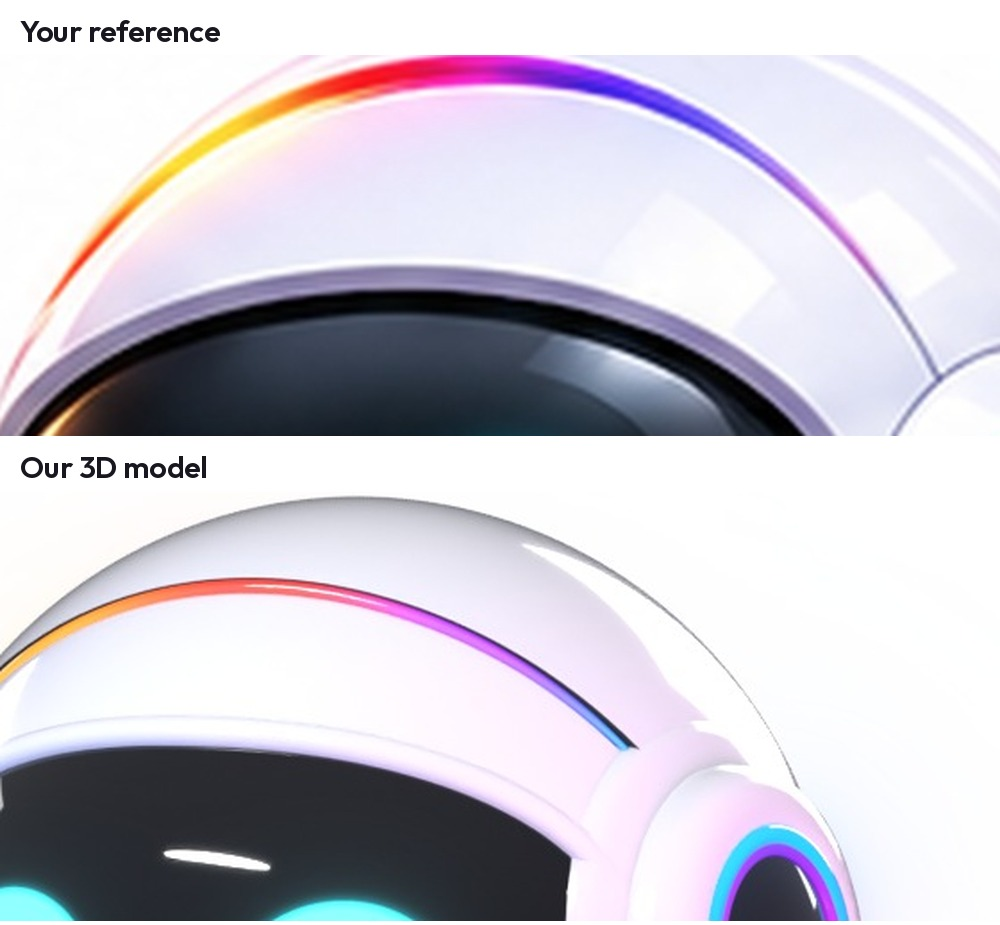
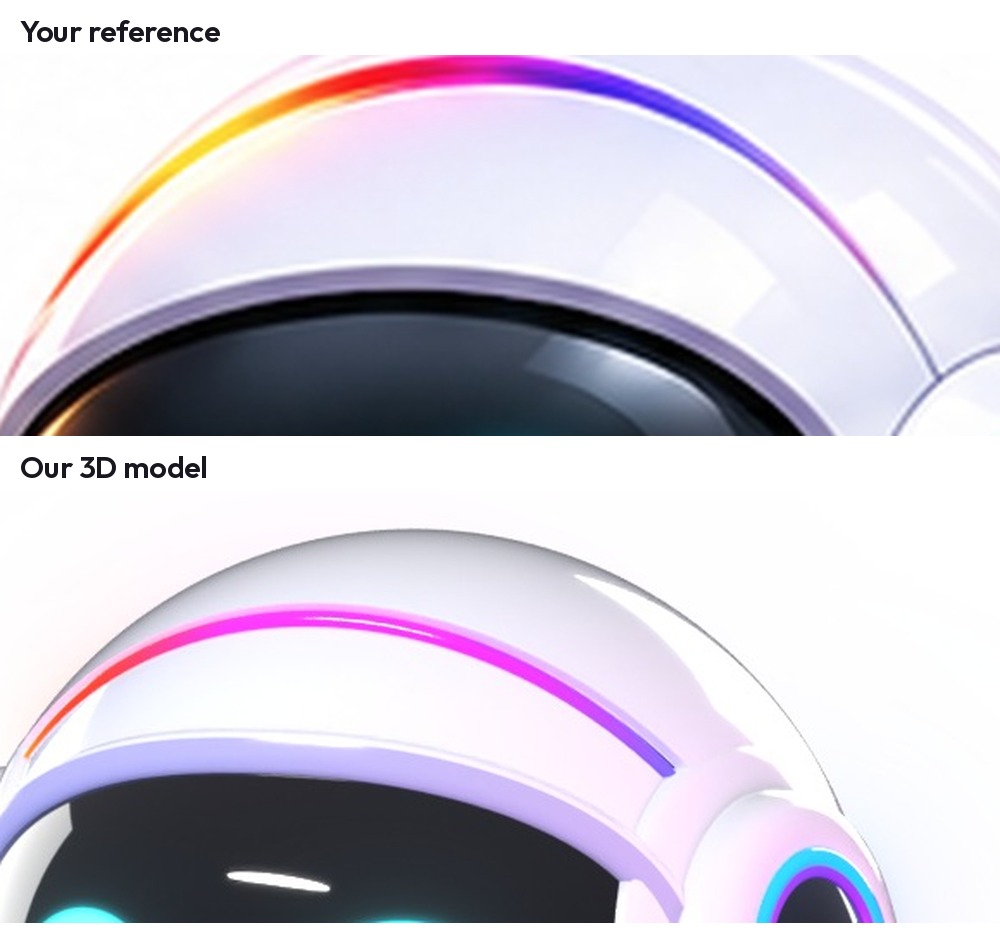
Character version 3: crisp shell lip over a saturated top glow, lavender chamfered visor rim
Claude-Session: https://claude.ai/code/session_011BdSE2fEeiEv9ZgoYmWAPn

diff --git a/design/hero/character/v3/build.py b/design/hero/character/v3/build.py
@@ -30,6 +30,7 @@ def ramp(stops, t):
     for (t0, c0), (t1, c1) in zip(stops, stops[1:]):
         if t <= t1: k = (t - t0) / max(t1 - t0, 1e-9); k = k * k * (3 - 2 * k); return mix(c0, c1, k)
     return stops[-1][1]
+HEAD = [(0.0, hexrgb('#ff9a00')), (0.2, hexrgb('#ff2a1a')), (0.45, hexrgb('#ff1fb0')), (0.7, hexrgb('#9b1cf0')), (1.0, hexrgb('#3a4bff'))]
 EAR = [(0.0, hexrgb('#2f6bff')), (0.5, hexrgb('#19c8ff')), (1.0, hexrgb('#2f6bff'))]
 EARIN = [(0.0, hexrgb('#ff1fd0')), (0.5, hexrgb('#8a2cff')), (1.0, hexrgb('#ff1fd0'))]
 SEAM = [(0.0, hexrgb('#2a7bff')), (0.5, hexrgb('#8a2cff')), (1.0, hexrgb('#ff4fd8'))]
@@ -173,25 +174,27 @@ for i in range(KS - 1):
     for j in range(MS): p, q = 1 + i * MS + j, 1 + i * MS + (j + 1) % MS; faces.append((p, p + MS, q + MS, q))
 visor = mesh_object('Visor', verts, faces, M_visor, uvs=uvs, parent=root)
 
-BZ = [(-0.014, -0.03), (-0.008, 0.008), (-0.002, 0.02), (0.008, 0.026), (0.022, 0.028), (0.038, 0.025), (0.05, 0.017), (0.058, 0.006), (0.062, -0.02)]
-verts, faces = [], []; MB = 240
-C0 = proj(0, VZ)
-for j in range(MB):
-    th = 2 * math.pi * j / MB; bx, bz = bnd(th); B = proj(bx, VZ + bz)
-    b1, b2 = bnd(th + 0.002), bnd(th - 0.002); T = (proj(b1[0], VZ + b1[1]) - proj(b2[0], VZ + b2[1])).normalized(); N = B.normalized()
-    O = T.cross(N).normalized()
-    if O.dot(B - C0) < 0: O = -O
-    for d, h in BZ: verts.append(B + O * d + N * h)
-L = len(BZ)
-for j in range(MB):
-    for i in range(L - 1): p = j * L + i; q = ((j + 1) % MB) * L + i; faces.append((p, q, q + 1, p + 1))
-mesh_object('Bezel', verts, faces, M_body, parent=root)
+M_rim = material('rim', (0.5, 0.46, 0.72), rough=0.18, coat=1.0)
+def bezel_sweep(name, prof, mat, MB=240):
+    verts, faces = [], []; C0 = proj(0, VZ)
+    for j in range(MB):
+        th = 2 * math.pi * j / MB; bx, bz = bnd(th); B = proj(bx, VZ + bz)
+        b1, b2 = bnd(th + 0.002), bnd(th - 0.002); T = (proj(b1[0], VZ + b1[1]) - proj(b2[0], VZ + b2[1])).normalized(); N = B.normalized()
+        O = T.cross(N).normalized()
+        if O.dot(B - C0) < 0: O = -O
+        for d, h in prof: verts.append(B + O * d + N * h)
+    L = len(prof)
+    for j in range(MB):
+        for i in range(L - 1): p = j * L + i; q = ((j + 1) % MB) * L + i; faces.append((p, q, q + 1, p + 1))
+    return mesh_object(name, verts, faces, mat, parent=root)
+bezel_sweep('BezelChamfer', [(-0.016, -0.03), (-0.014, 0.004), (-0.008, 0.018), (0.014, 0.03), (0.048, 0.038)], M_rim)          # the lavender band round the glass
+bezel_sweep('Bezel', [(0.048, 0.038), (0.05, 0.04), (0.064, 0.035), (0.08, 0.022), (0.09, 0.006), (0.094, -0.03)], M_body)     # the white face, a crisp edge against the band
 
 # ---------------------------------------------------------------- ears: a raised plate, a cup, a black centre and a light ring
 EAR_LON, EAR_LAT = 76, 6
 for s in (1, -1):
     ax = on_sphere(s * EAR_LON, EAR_LAT); nm = 'L' if s > 0 else 'R'
-    plate = [(0.0, 1.012)] + [(rr, math.sqrt(1 - rr * rr) + 0.028) for rr in (0.2, 0.3, 0.4, 0.46, 0.485)] + [(0.497, math.sqrt(1 - 0.497 ** 2) + 0.016), (0.503, math.sqrt(1 - 0.503 ** 2) - 0.004), (0.505, math.sqrt(1 - 0.505 ** 2) - 0.02)]
+    plate = [(0.0, 1.03)] + [(rr, math.sqrt(1 - rr * rr) + 0.03) for rr in (0.2, 0.3, 0.4, 0.46, 0.485)] + [(0.497, math.sqrt(1 - 0.497 ** 2) + 0.026), (0.503, math.sqrt(1 - 0.503 ** 2) + 0.012), (0.505, math.sqrt(1 - 0.505 ** 2) - 0.02)]
     lathe('EarPlate' + nm, plate, M_body, axis=ax)
     lathe('EarCup' + nm, [(0.4, 0.88), (0.4, 0.955), (0.393, 0.995), (0.375, 1.025), (0.345, 1.045), (0.305, 1.056), (0.275, 1.054), (0.258, 1.047), (0.25, 1.038)], M_body, axis=ax)   # a low housing, close on the body
     lathe('EarCentre' + nm, [(0.238, 1.036), (0.2, 1.062), (0.1, 1.086), (0.0, 1.093)], M_black, axis=ax)
@@ -203,8 +206,8 @@ for s in (1, -1):
 E1 = on_sphere(EAR_LON, EAR_LAT); TOP = on_sphere(0, 58)
 n_ = Vector((1, 0, 0)).cross(TOP - Vector((0, E1.y, E1.z))).normalized(); d_ = n_.dot(E1); C_ = n_ * d_; rr_ = math.sqrt(1 - d_ * d_); up_ = n_.cross(Vector((1, 0, 0))).normalized()
 if up_.z < 0: up_ = -up_
-head_pts = [C_ + (rr_ + 0.002) * (math.cos(a) * Vector((1, 0, 0)) + math.sin(a) * up_) for a in [math.radians(146 - 112 * i / 199) for i in range(200)]]
-tube('HeadStripe', head_pts, lambda t: 0.017 * math.sin(math.pi * t) ** 0.6 + 0.0004, M_head, n=12, color=lambda t: spectrum(0.875 - 0.5 * t), parent=root)   # in the cut, under the step; both ends come to a sharp point
+head_pts = [C_ + (rr_ - 0.004) * (math.cos(a) * Vector((1, 0, 0)) + math.sin(a) * up_) for a in [math.radians(150 - 120 * i / 199) for i in range(200)]]
+tube('HeadStripe', head_pts, lambda t: 0.025 * math.sin(math.pi * t) ** 0.45 + 0.0004, M_head, n=14, color=lambda t: ramp(HEAD, t), parent=root)   # fills the slot, under the lip; both ends sharp
 # the bottom piece, as on the current website character: a groove that parts the base panel, lit along its front with the gradient line
 M_base = material('base', (0.8, 0.82, 0.88), rough=0.18, coat=1.0); M_dark = material('socket', (0.012, 0.015, 0.02), rough=0.3); DARK_IN_GLOW |= {'base', 'socket'}
 RHO = math.radians(55); h0 = Vector((math.sin(math.radians(192)), -math.cos(math.radians(192)), 0))
@@ -223,7 +226,7 @@ mod = body.modifiers.new('cut', 'BOOLEAN'); mod.operation = 'DIFFERENCE'; mod.ob
 bpy.context.view_layer.objects.active = body; bpy.ops.object.modifier_apply(modifier=mod.name); bpy.data.objects.remove(cutter)
 # the cut that the top light sits in: a thin slot all round where the shell meets the face piece, and the shell behind it
 # stands a little proud, so there is a clear step edge with the light under it (fitted panels, as on the reference)
-hv, hf = [], []; HN = 240; SLOT = 0.011; STEP = 1.02
+hv, hf = [], []; HN = 240; SLOT = 0.024
 for i in range(HN):
     a = 2 * math.pi * i / HN; dirv = math.cos(a) * Vector((1, 0, 0)) + math.sin(a) * up_
     for rad, tt in ((rr_ - 0.05, -SLOT), (rr_ - 0.05, SLOT), (rr_ + 0.09, SLOT), (rr_ + 0.09, -SLOT)): hv.append(C_ + dirv * rad + n_ * tt)
@@ -233,8 +236,10 @@ headcut = mesh_object('HeadCut', hv, hf, M_dark)
 mod = body.modifiers.new('headcut', 'BOOLEAN'); mod.operation = 'DIFFERENCE'; mod.object = headcut; mod.solver = 'EXACT'; mod.material_mode = 'TRANSFER'
 bpy.context.view_layer.objects.active = body; bpy.ops.object.modifier_apply(modifier=mod.name); bpy.data.objects.remove(headcut)
 s_top = 1 if n_.z > d_ else -1
-for v in body.data.vertices:
-    if s_top * (v.co.dot(n_) - d_) > SLOT - 0.0005 and v.co.length > 0.985: v.co = v.co * STEP
+A_ = n_ * s_top; h_e = s_top * d_ + SLOT; RS = 1.024; th_e = math.acos(h_e / RS); rho_e = RS * math.sin(th_e)
+lathe('TopShell', [(RS * math.sin(th_e * k / 90), RS * math.cos(th_e * k / 90)) for k in range(91)], M_body, axis=A_, n=320)   # the shell behind the cut
+lathe('TopShellLip', [(rho_e, h_e), (rho_e * 0.985 / RS, h_e * 0.985 / RS)], M_body, axis=A_, n=320)                            # its edge: a crisp step
+for o in ('TopShell', 'TopShellLip'): bpy.data.objects[o].parent = root
 me_ = body.data; base_slot = len(me_.materials); me_.materials.append(M_base); bm = bmesh.new(); bm.from_mesh(me_)
 for f in bm.faces:
     f.smooth = True

diff --git a/design/hero/character/v3/final.py b/design/hero/character/v3/final.py
@@ -39,7 +39,8 @@ def neon(name, strength, white=0.12):
     nt.links.new(inv.outputs[0], st.inputs['Value']); nt.links.new(st.outputs['Result'], b.inputs['Emission Strength'])
     b.inputs['Roughness'].default_value = 0.1; b.inputs['Coat Weight'].default_value = 1.0; b.inputs['Coat Roughness'].default_value = 0.0
 bpy.data.materials['visor'].node_tree.nodes['Principled BSDF'].inputs['Emission Strength'].default_value = 1.6
-for nm, s_ in (('headStripe', 1.6), ('lowSeam', 2.6)): neon(nm, s_)
+neon('headStripe', 2.6, white=0.0); neon('lowSeam', 2.6)
+for nm in ('rim',): setp(nm, Roughness=0.16, Coat_Weight=1.0, Coat_Roughness=0.01)
 neon('earRing', 1.3, white=0.0)
 rb = bsdf('ring'); rb.inputs['Emission Strength'].default_value = 0.85; rb.inputs['Roughness'].default_value = 0.1; rb.inputs['Coat Weight'].default_value = 1.0; rb.inputs['Coat Roughness'].default_value = 0.0
 next(n for n in bpy.data.materials['ring'].node_tree.nodes if n.bl_idname == 'ShaderNodeMix').inputs['B'].default_value = (1, 1, 1, 1)   # the logo ring: glossy, deep colour, not a light tube
